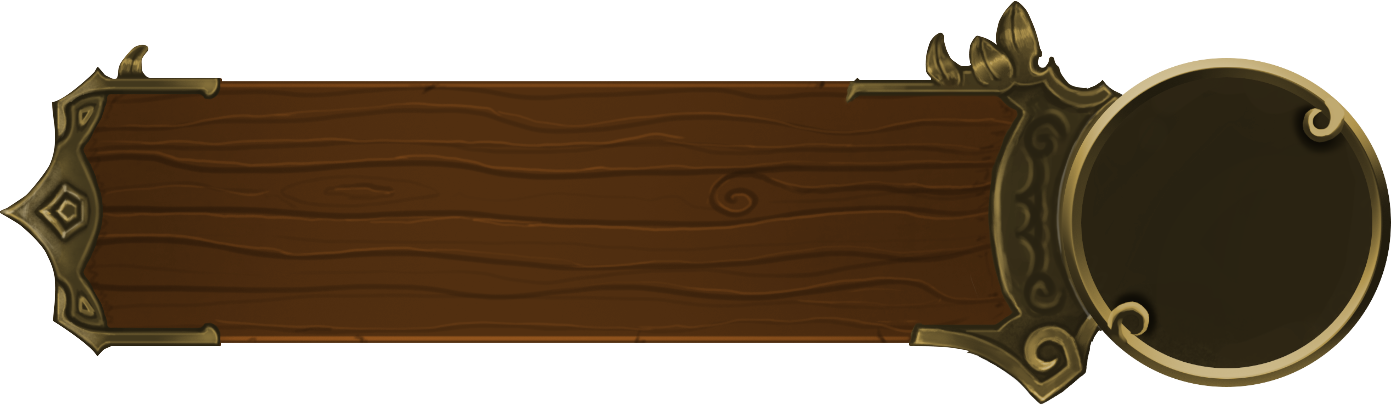
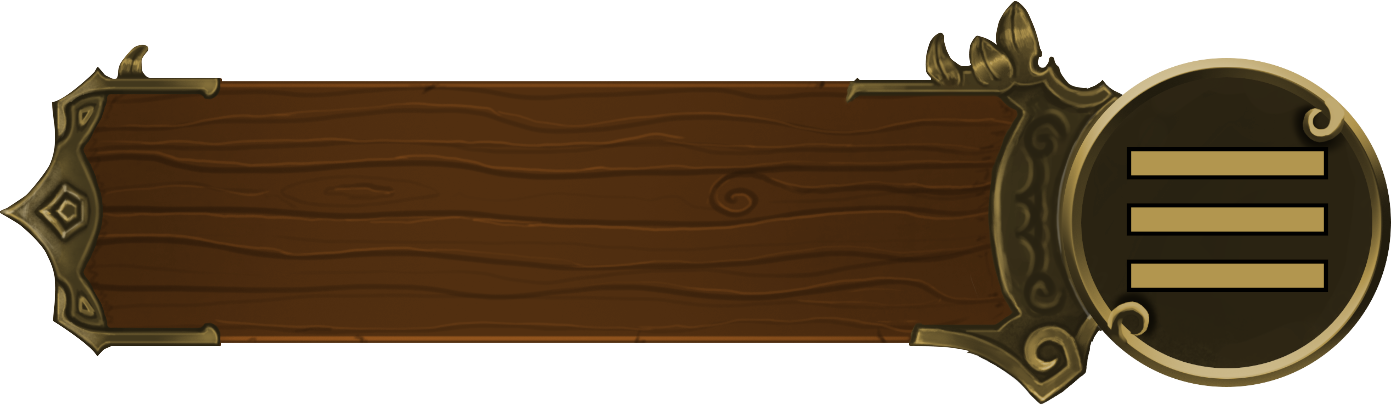
mobile improvements

Changed region(s): [[0.8037, 0.6222, 0.9583, 0.7407], [0.8037, 0.5037, 0.9583, 0.5926], [0.8037, 0.3556, 0.9583, 0.4444]]

diff --git a/assets/js/FoL.js b/assets/js/FoL.js
@@ -302,7 +302,7 @@ const universal = [
        defenseType: "poise",
        yield:"",
        summary:"",
-       effect: "When you use an attack... Increase the threat of the attak by +4.",
+       effect: "Trigger: When you use an attack... Increase the threat of the attak by +4.",
        isUniversal: true,
      }
    },
@@ -487,6 +487,22 @@ function registerTooltips(html){
     updateAnimation:null,
     minWidth: $("#info").width()*.9,
     maxWidth: $("#info").width()*.9,
+    trigger: "custom",
+    triggerClose: {
+      click: true,
+      mouseleave: true,
+      originClick: false,
+      scroll: false,
+      tap: true,
+      touchleave: true
+  },
+  triggerOpen: {
+      click: true,
+      hover: true,
+      mouseenter: true,
+      tap: true,
+      touchstart: true
+  },
     interactive: true,
     arrow: false,
     functionPosition,

diff --git a/assets/css/forgeoflegends.css b/assets/css/forgeoflegends.css
@@ -15,9 +15,9 @@
   --color-border-highlight-alt: #61b81b;
 }
 
-::-webkit-scrollbar-thumb {
+/* ::-webkit-scrollbar-thumb {
   background: var(--primary-color)
-}
+} */
 
 :root {
   --primary-color: #73953e;
